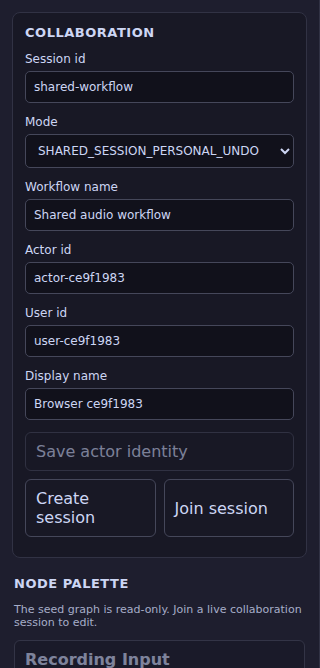
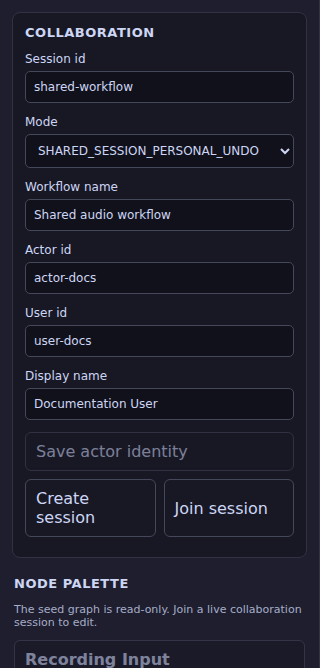
docs: verify deterministic integration-generated screenshots

Changed region(s): [[0.125, 0.5988, 0.5, 0.6287], [0.2188, 0.479, 0.375, 0.5389], [0.2188, 0.3892, 0.4062, 0.4192]]

diff --git a/audio-web-editor/src/useWorkflowSession.ts b/audio-web-editor/src/useWorkflowSession.ts
@@ -489,7 +489,7 @@ export function useWorkflowSession(callbacks: WorkflowSessionCallbacks): Workflo
           void reconcile('command metadata unavailable').catch(() => undefined);
         }
         setCommandState('accepted');
-        onStatus(`Loaded: server accepted ${operationId}`);
+        onStatus(`Loaded: server accepted operation at revision ${metadata?.revision ?? expectedRevision + 1}`);
         return projection;
       } catch (failure) {
         setCommandState('rejected');

diff --git a/workbench-screenshot-tests/src/test/java/org/hammer/audio/workbench/screenshot/WorkbenchInitialLoadIT.java b/workbench-screenshot-tests/src/test/java/org/hammer/audio/workbench/screenshot/WorkbenchInitialLoadIT.java
@@ -60,6 +60,10 @@ class WorkbenchInitialLoadIT {
   private static final int VIEWPORT_HEIGHT = 720;
   private static final int PAGE_LOAD_TIMEOUT_MS = 15_000;
   private static final String EXPECTED_STATUS_PREFIX = "Loaded:";
+  private static final String ACTOR_INIT_SCRIPT =
+      "window.sessionStorage.setItem('audio-analyzer.workflow.actor',"
+          + " JSON.stringify({actorId:'actor-docs',userId:'user-docs',"
+          + "displayName:'Documentation User'}));";
 
   private GenericContainer<?> container;
   private Playwright playwright;
@@ -110,6 +114,7 @@ class WorkbenchInitialLoadIT {
 
     try (Page page = browser.newPage()) {
       page.setViewportSize(VIEWPORT_WIDTH, VIEWPORT_HEIGHT);
+      page.addInitScript(ACTOR_INIT_SCRIPT);
 
       // Navigate to the workbench
       page.navigate(baseUrl + "/");
@@ -186,6 +191,7 @@ class WorkbenchInitialLoadIT {
 
     try (Page page = browser.newPage()) {
       page.setViewportSize(VIEWPORT_WIDTH, VIEWPORT_HEIGHT);
+      page.addInitScript(ACTOR_INIT_SCRIPT);
       page.navigate(baseUrl + "/");
       page.waitForLoadState();
 
